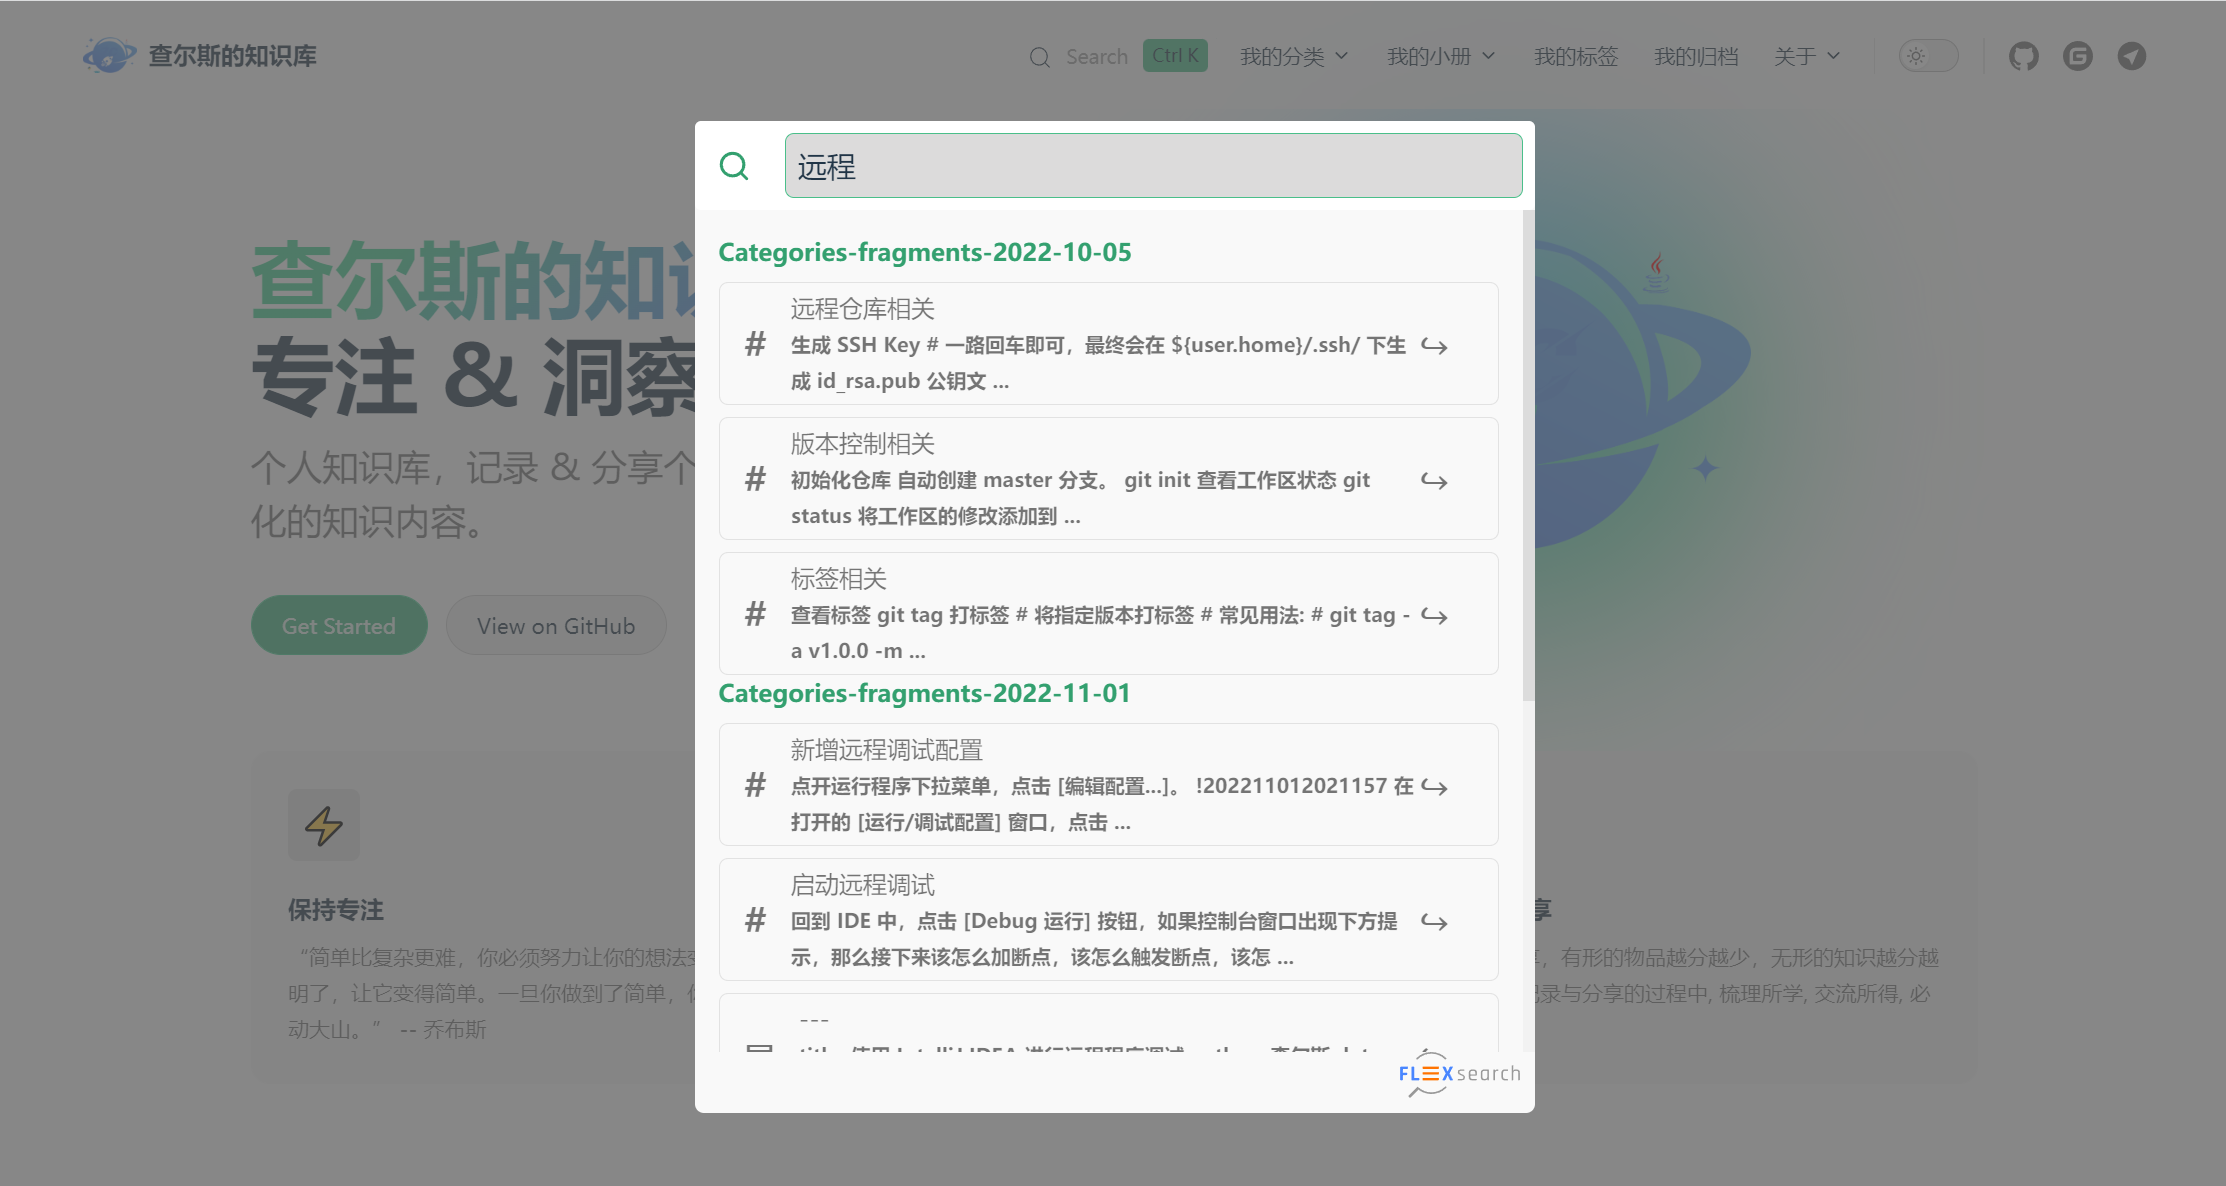
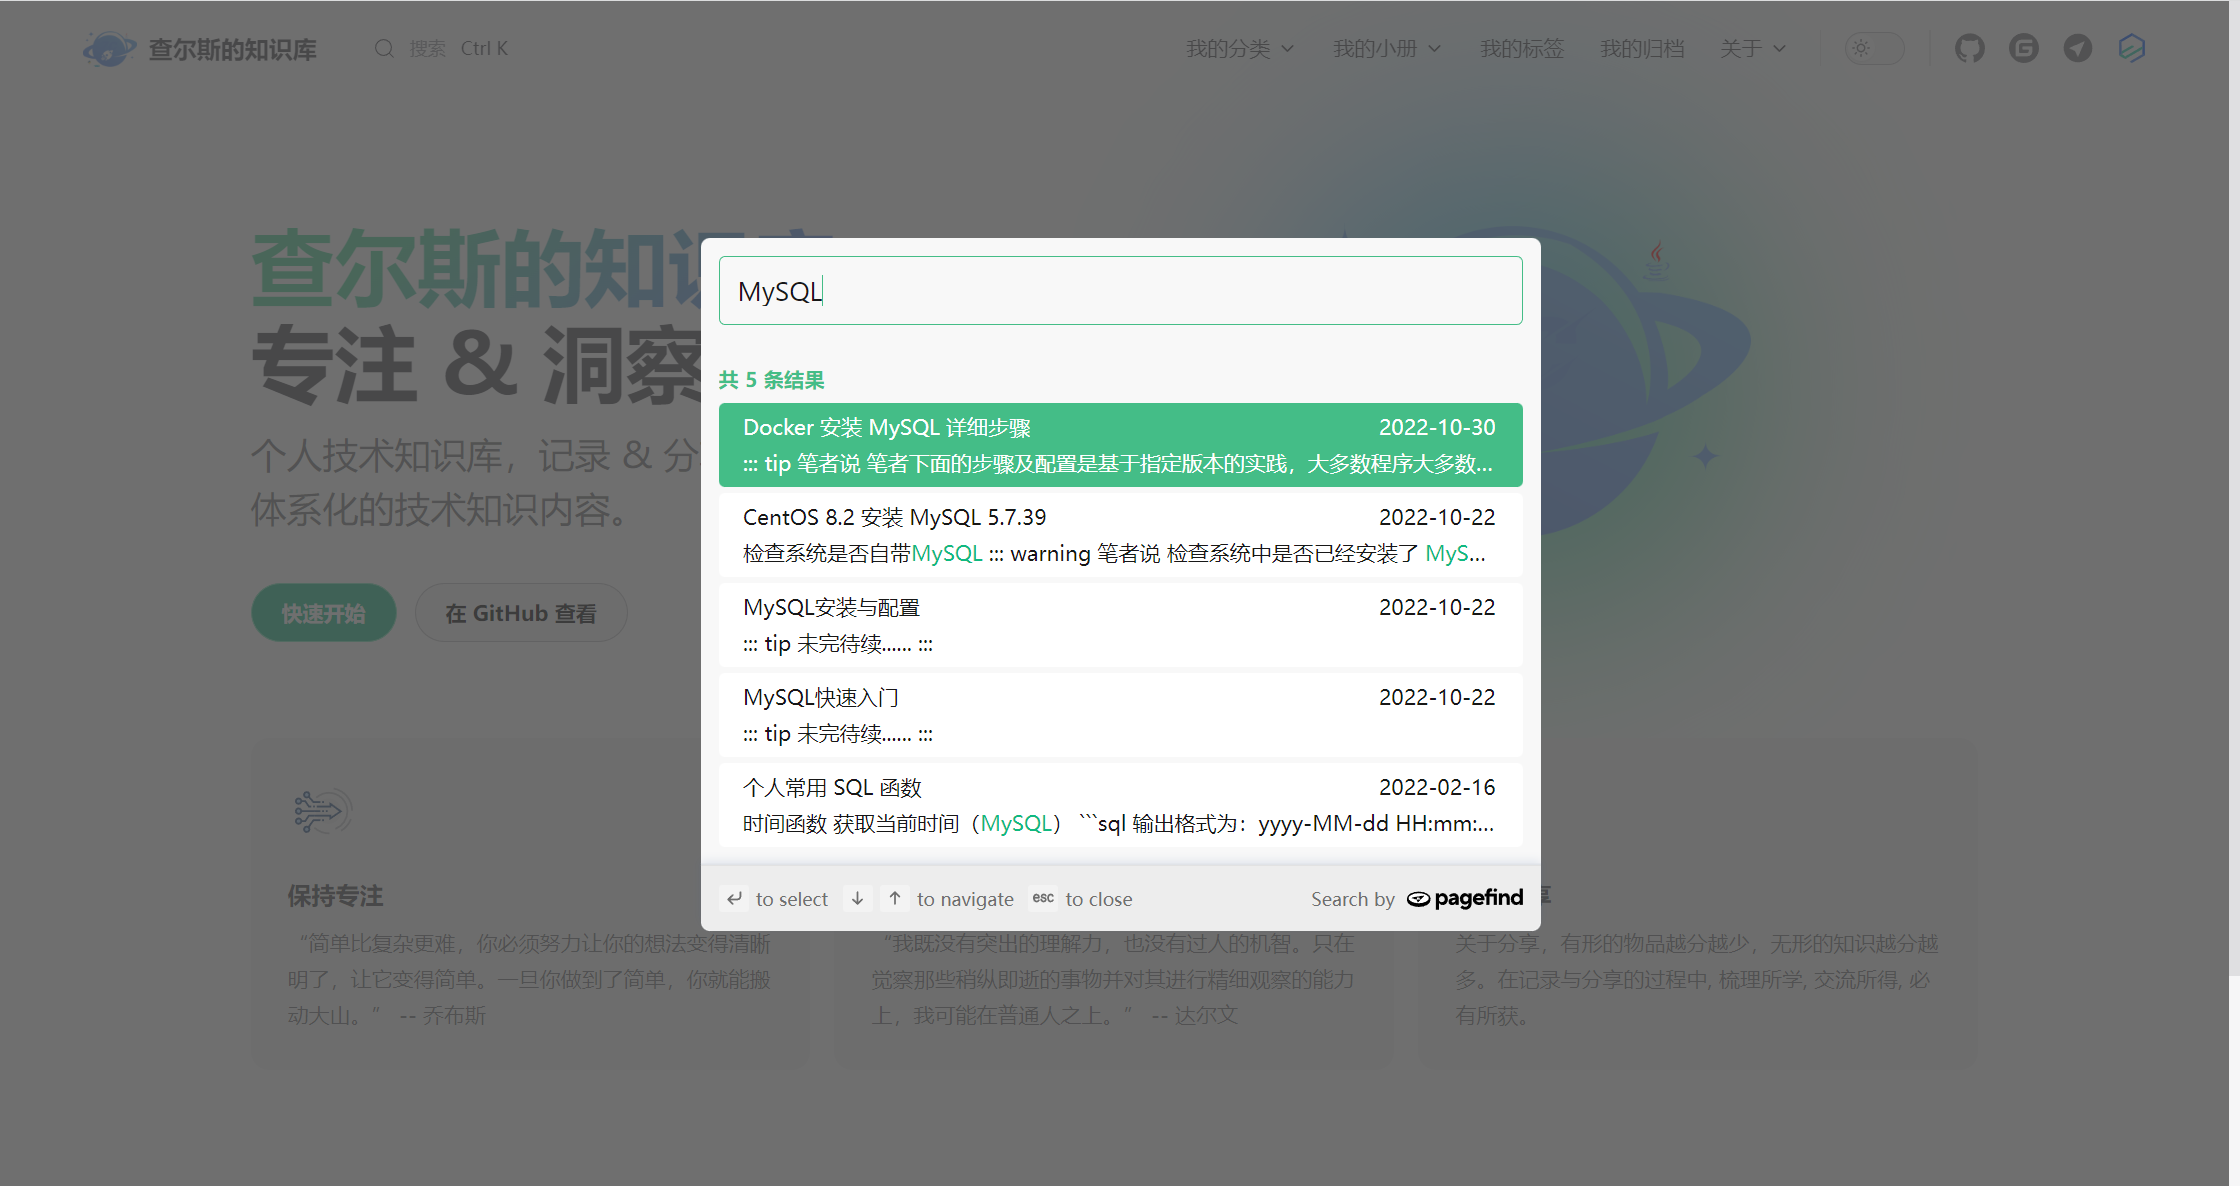
优化：使用 vitepress-plugin-pagefind 离线搜索插件替换 vitepress-plugin-search 插件，中文搜索相对友好一些（毕竟国人写的）

diff --git a/docs/vite.config.ts b/docs/vite.config.ts
@@ -1,13 +1,15 @@
 import { defineConfig } from 'vite';
 import Components from 'unplugin-vue-components/vite';
 import { ArcoResolver } from 'unplugin-vue-components/resolvers';
-// import { SearchPlugin } from 'vitepress-plugin-search';
+// import { pagefindPlugin } from 'vitepress-plugin-pagefind';
 
 export default defineConfig({
   plugins: [
-    // SearchPlugin({
-    //   encode: false,
-    //   tokenize: 'full',
+    // pagefindPlugin({
+      // btnPlaceholder: '搜索',
+      // placeholder: '搜索文档',
+      // emptyText: '空空如也',
+      // heading: '共 {{searchResult}} 条结果'
     // }),
     Components({
       dirs: ['.vitepress/theme/components'],

diff --git a/README.md b/README.md
@@ -65,7 +65,7 @@ pnpm build
 
 - [x] ~~徽章：标题后可显示徽章，此功能来自于 VitePress 未合并的 PR，如若后续被合并，则改用官方主题功能（[官方已合并于 v1.0.0-alpha.27](https://github.com/vuejs/vitepress/issues/1239)）~~
 
-- [x] 本地文档搜索支持：VitePress 官方目前仅提供了对接 algolia 的在线搜索配置，而且对接起来的流程也较为麻烦。所幸寻到一个本地文档搜索插件 [emersonbottero/vitepress-plugin-search](https://github.com/emersonbottero/vitepress-plugin-search)，如需体验，可将 `docs/vite.config.ts` 文件中的注释去除掉。
+- [x] 本地文档搜索支持：VitePress 官方目前仅提供了对接 algolia 的在线搜索配置，而且对接起来的流程也较为麻烦。~~所幸寻到一个本地文档搜索插件 [emersonbottero/vitepress-plugin-search](https://github.com/emersonbottero/vitepress-plugin-search)。~~目前对接了 [vitepress-plugin-pagefind](https://www.npmjs.com/package/vitepress-plugin-pagefind) 本地搜索插件，中文搜索相对友好一些，如需体验，可将 `docs/vite.config.ts` 文件中的注释去除掉。目前 VitePress 官方有一个 PR 正在处理离线搜索功能，再过段时间应该就能合并了，到时候体验一下试试看。
 
   注意：本地文档搜索和 algolia 搜索无法同时使用，开启本地文档搜索后 algolia 搜索配置将不再生效。
 
@@ -121,7 +121,7 @@ pnpm build
 ![Mermaid流程图](./docs/public/screenshot/Mermaid流程图1.png)
 ![Mermaid流程图](./docs/public/screenshot/Mermaid流程图2.png)
 
-## 致谢
+## 特别鸣谢
 
 - [vuejs/vitepress](https://github.com/vuejs/vitepress) （本知识库基于 VitePress 构建）
 - [vitejs/vite](https://github.com/vitejs/vite) （参考主页美化）
@@ -134,7 +134,7 @@ pnpm build
 - [xiaoxian521/pure-admin-utils-docs](https://github.com/xiaoxian521/pure-admin-utils-docs) （参考词云组件的使用）
 - [arco-design/arco-design-vue](https://github.com/arco-design/arco-design-vue) （使用部分组件及图标）
 - [antvis/G2plot](https://github.com/antvis/G2plot) （使用部分图表）
-- [emersonbottero/vitepress-plugin-search](https://github.com/emersonbottero/vitepress-plugin-search) （VitePress 本地文档搜索插件）
+- [vitepress-plugin-pagefind](https://www.npmjs.com/package/vitepress-plugin-pagefind) （VitePress 本地文档搜索插件，中文搜索相对友好一些）
 - [emersonbottero/vitepress-plugin-mermaid](https://github.com/emersonbottero/vitepress-plugin-mermaid) （VitePress Mermaid 流程图插件）
 - [mermaid-js/mermaid](https://github.com/mermaid-js/mermaid/blob/develop/README.zh-CN.md)
 - ......
